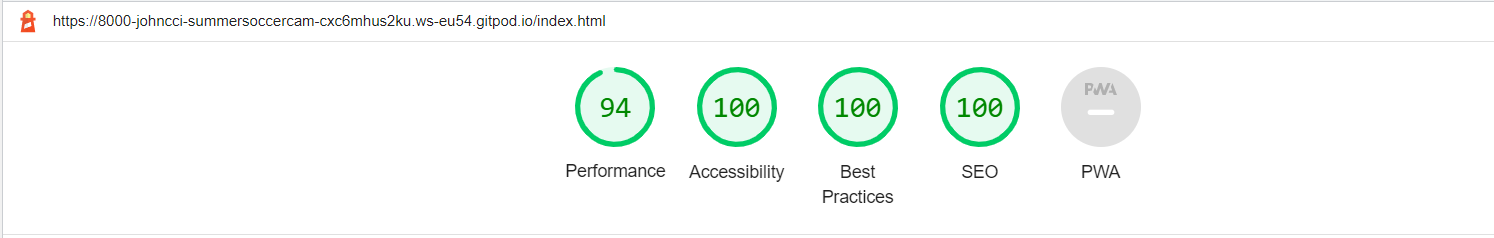
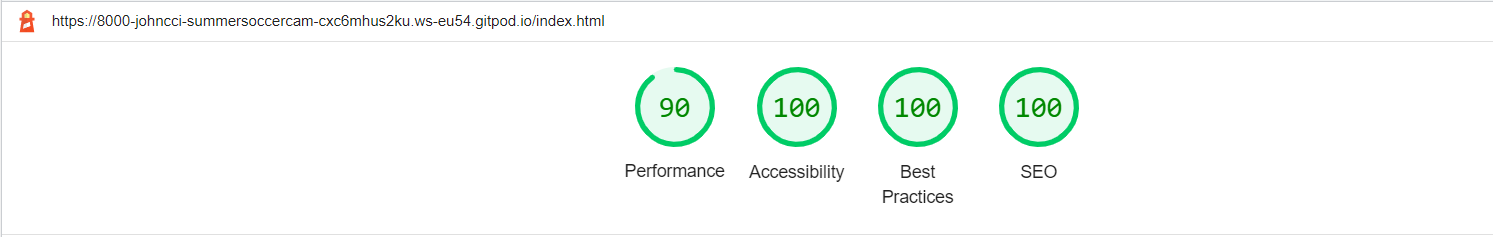
tested multiple new images on home page to assess the best lighthouse score and image quality, selected image from this testing to replace existing one. add new image to readme to reflect new lighthouse score

diff --git a/assets/css/style.css b/assets/css/style.css
@@ -37,7 +37,7 @@ nav ul {
 
 /*-- Hamburger menu assistance from Harsh Chandra in creating menu --*/
 
-#menu {
+header>#menu {
     width: 250px;
     min-height: 250px;
     position: absolute;
@@ -92,7 +92,7 @@ a:hover {
     width: 100%;
     overflow: hidden;
     background-color: #ccff99;
-    background: url(../images/main-image-home.webp) no-repeat center center;
+    background: url(../images/main-image.webp) no-repeat center center;
     background-position: center;
     background-size: cover;
     display: flex;
@@ -227,7 +227,7 @@ i:hover {
     justify-content: center;
     align-items: center;
     width: 100%;
-    background: url(../images/signup-image.avif) no-repeat center center;
+    background: url(../images/sign-up-image.webp) no-repeat center center;
     min-height: 100vh;
     background-color: #ccff99;
 

diff --git a/index.html b/index.html
@@ -38,7 +38,7 @@
             </ul>
         </nav>
 
-        <div id="menu" style="display: none;">
+        <div id="menu">
             <ul>
                 <li>
                     <a href="index.html#home" aria-label="Go to the top of the page">Home</a>
